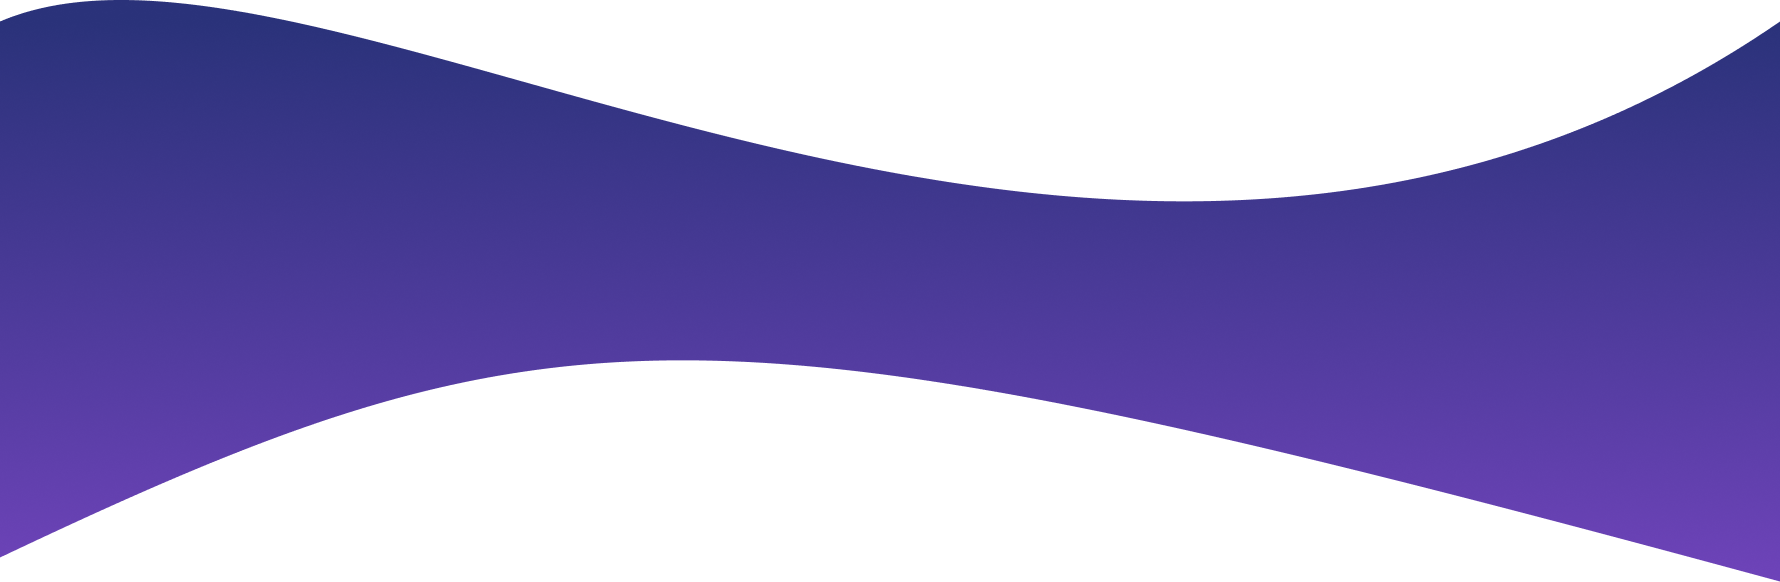
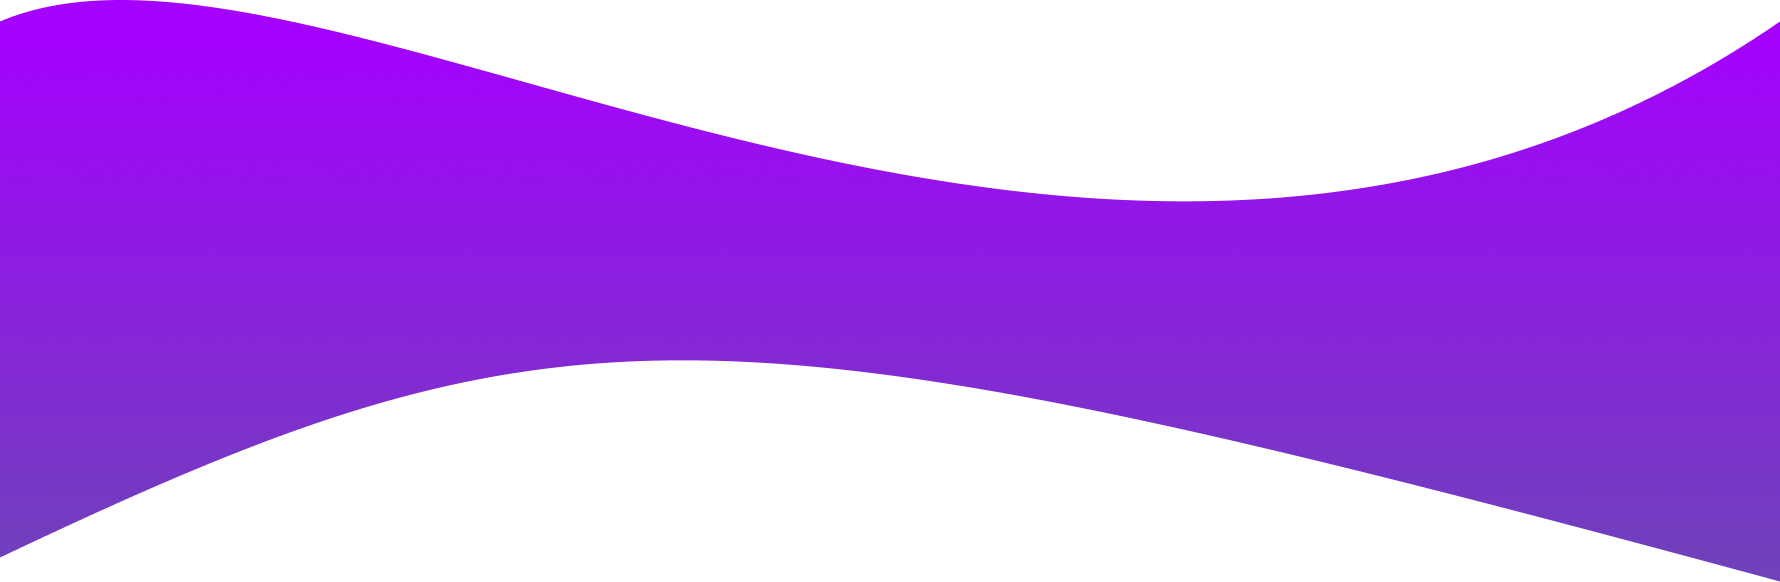
alterando imagem

diff --git a/site_institucional/index.html b/site_institucional/index.html
@@ -235,7 +235,7 @@
 
     <!-- Inicio nossa equipe -->
     <div class="nossa-equipe">
-        <img id="vetor" src="assets/Vector 4.png" width="1900" style="margin-top: -5%;">
+        <img id="vetor" src="assets/Vector 4 (2).png" width="1900" style="margin-top: -5%;">
         <h2 id="nossa-equipe">NOSSA EQUIPE</h2>
         <div class="lineE"></div>
         <div class="caixa-equipe">
